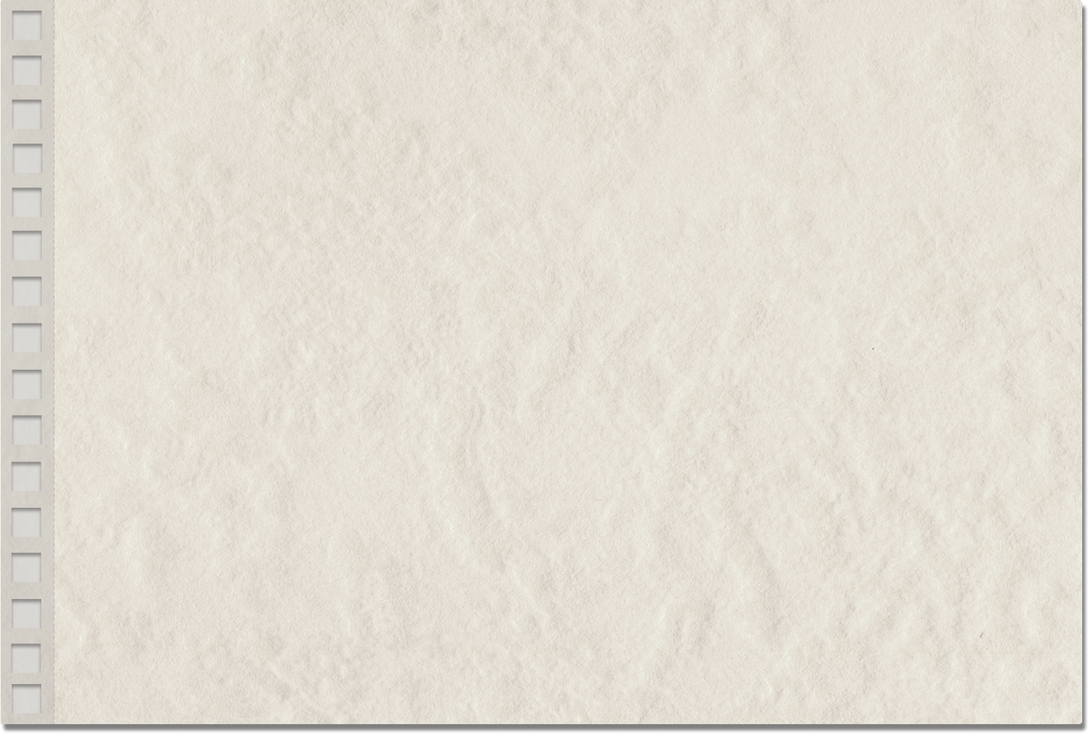
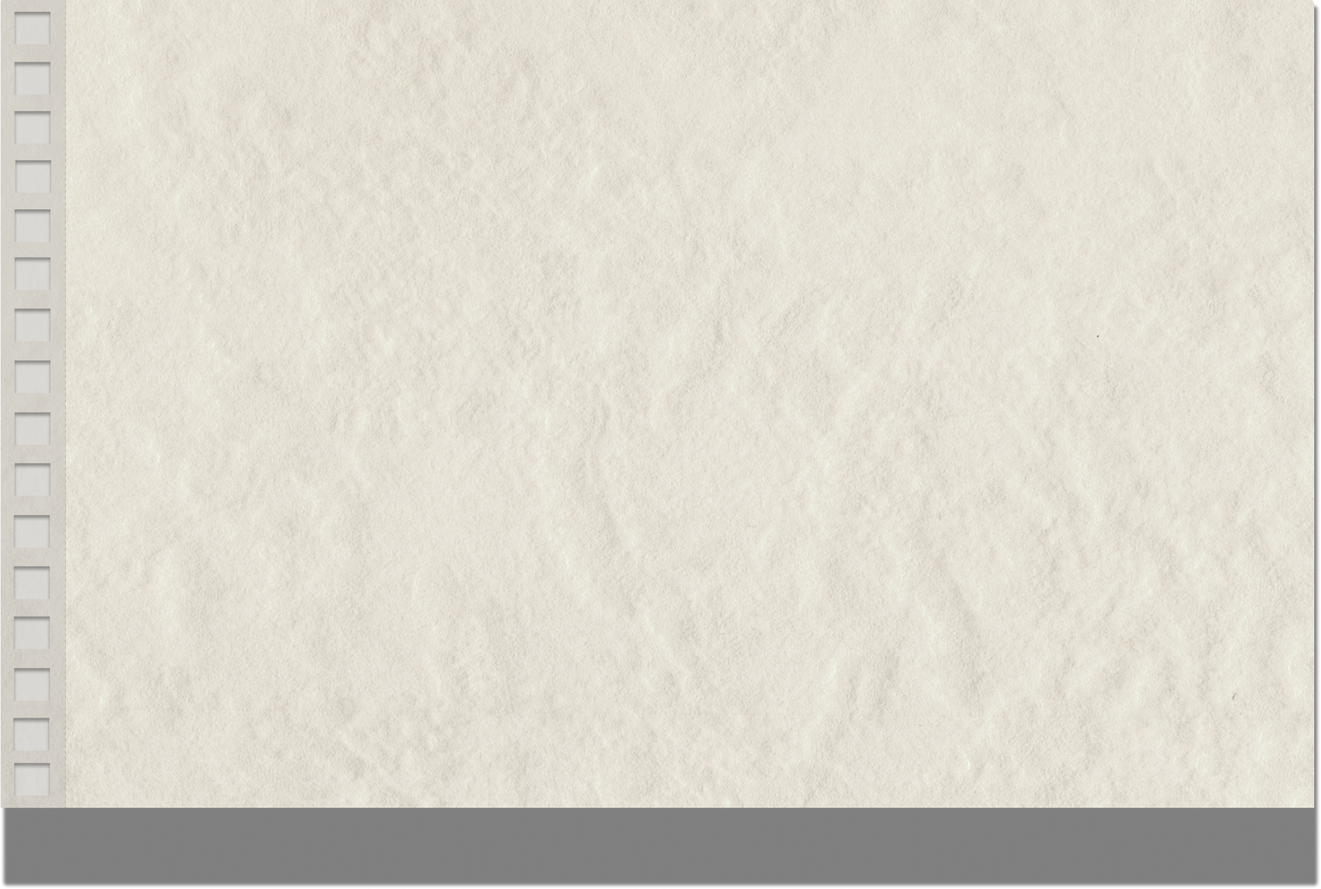
feat: Criação do Jonal e dos post-its no quadro de notas

diff --git a/src/components/novidades/Jornal.tsx b/src/components/novidades/Jornal.tsx
@@ -5,49 +5,55 @@ import img4 from "../../assets/images/senaiPredio.jpg";
 
 export default function Jornal() {
      return (
-        <div className="w-full min-h-screen bg-[#101625] text-white px-8 py-20">
+        <div className="w-full min-h-screen bg-[#101625] text-white py-[70px]">
 
             <div className="w-full flex justify-end mb-[50px]">
-            <h1 className="bg-[#94122F] px-[500px] py-2 text-[3rem] font-bold rounded mr-[-2rem]">
-                Formatura
+            <h1 className="bg-[#94122F] px-[500px] py-2 text-[3rem] font-bold rounded-l">
+                Novidades
             </h1>
             </div>
 
-        <div className="grid grid-cols-3 gap-6">
+        <div className="grid grid-cols-3 gap-6 pl-10 pr-10">
             <div className="flex flex-col gap-4">
             <img
                 src={img1}
-                className="rounded-xl w-full h-[250px] object-cover"
+                className="rounded-xl w-full h-[300px] object-cover"
             />
-            <p className="text-md leading-relaxed border-l-4 border-blue-500 pl-3">
-                Entre as principais atualizações, estão a modernização dos laboratórios e a ampliação do uso de tecnologias digitais em sala de aula, permitindo que os estudantes tenham contato direto com ferramentas utilizadas na indústria atual. Além disso, novos cursos e especializações foram incorporados à grade, acompanhando as demandas do setor produtivo e ampliando as oportunidades de qualificação.            </p>
-            <img
-                src={img2}
-                className="rounded-xl w-full h-[140px] object-cover"
-            />
+            <p className="text-md leading-relaxed text-justify">
+                Além disso, o SENAI oferece uma variedade de cursos, que vão desde formação inicial e continuada até cursos técnicos, graduação e pós-graduação, abrangendo áreas como tecnologia da informação, logística, mecânica, automação e gestão. Essa diversidade permite estudantes de diferentes perfis encontrem oportunidades de qualificação e crescimento profissional dentro da própria instituição. </p>
+            
+            <div className="flex items-start gap-4 ">
+                <p className="text-md leading-relaxed text-justify max-w-[300px]">
+                    Outro diferencial é a forte conexão com o setor industrial. A unidade mantém parcerias com empresas e incentiva a participação dos alunos em estágios, possibilitando a aplicação dos conhecimentos adquiridos em situações reais de trabalho.
+                    Esse contato contribui para o desenvolvimento de competências técnicas e comportamentais.
+                </p>
+                <img
+                    src={img2}
+                    className="rounded-xl w-[300px] h-[260px] object-cover"
+                />
             </div>
+        </div>
 
             <div className="flex flex-col gap-4">
-            <p className="text-md leading-relaxed">
-                A unidade do SENAI Leopoldina Mariano Ferraz tem se destacado recentemente por uma série de novidades que reforçam seu compromisso com a formação de profissionais qualificados e preparados para o mercado de trabalho. Com investimentos em infraestrutura, inovação tecnológica e metodologias de ensino mais dinâmicas, a instituição vem proporcionando uma experiência educacional cada vez mais completa aos alunos.            </p>
+            <p className="text-md leading-relaxed text-justify">
+                A unidade do SENAI Leopoldina Mariano Ferraz tem se destacado recentemente por uma série de iniciativas que reforçam seu compromisso com a formação de profissionais qualificados e preparados para as exigências do mercado industrial. Integrando uma das maiores redes de educação profissional da América Latina, a escola oferece uma estrutura moderna e alinhada às demandas tecnológicas atuais, proporcionando aos alunos uma formação prática e atualizada.
+                Nos últimos anos, a instituição tem ampliado significativamente sua atuação, investindo na modernização de laboratórios e na incorporação de tecnologias emergentes, como automação industrial, inteligência artificial e sistemas digitais. Eventos como o Mundo SENAI, por exemplo, aproximam os estudantes dessas inovações por meio de palestras, visitas técnicas e experiências práticas em áreas como impressão 3D, mecatrônica e eletrificação veicular. </p>
             <img
                 src={img3}
-                className="rounded-xl w-full h-[400px] object-cover"
+                className="rounded-xl w-full h-[395px] object-cover"
             />
             </div>
 
             <div className="flex flex-col gap-4">
             <img
                 src={img4}
-                className="rounded-xl w-full h-[180px] object-cover"
+                className="rounded-xl w-full h-[370px] object-cover"
             />
-            <p className="text-md leading-relaxed">
-                Outro destaque é o incentivo a projetos práticos e colaborativos, nos quais os alunos desenvolvem soluções reais para desafios do mercado. Essas iniciativas estimulam não apenas o conhecimento técnico, mas também habilidades como trabalho em equipe, criatividade e resolução de problemas. </p>
-            <p className="text-md leading-relaxed">
-                Com essas mudanças, o SENAI Leopoldina Mariano Ferraz segue consolidando sua posição como referência em educação profissional, preparando seus alunos para os desafios de um cenário cada vez mais tecnológico e competitivo. </p>
+            <p className="text-md leading-relaxed text-justify">
+                Com uma trajetória marcada pela constante evolução — desde sua criação voltada para atender à demanda industrial da região até sua consolidação como um centro de tecnologia e inovação — o SENAI Leopoldina Mariano Ferraz continua se reinventando para acompanhar as transformações da indústria. Ao investir continuamente em infraestrutura, inovação e na atualização de suas metodologias de ensino, a instituição demonstra um compromisso sólido com a excelência na formação profissional. Nesse contexto, não apenas prepara seus alunos para o ingresso no mercado de trabalho, mas também contribui ativamente para o desenvolvimento tecnológico e industrial do país. Dessa forma, o SENAI Leopoldina Mariano Ferraz se mantém como uma referência em educação profissional, formando não apenas técnicos qualificados, mas cidadãos preparados para enfrentar os desafios de um cenário cada vez mais dinâmico, competitivo e em constante transformação. </p>
             </div>
 
         </div>
-        </div>
+    </div>
     );
     }

diff --git a/src/components/novidades/QuadroNotas.tsx b/src/components/novidades/QuadroNotas.tsx
@@ -1,12 +1,63 @@
 import fundo from "../../assets/images/FundoNotas.png";
+import { useEffect, useState } from "react";
 
 function QuadroNotas() {
+  const [isMobile, setIsMobile] = useState(false);
+
+  useEffect(() => {
+    const checkScreen = () => {
+      setIsMobile(window.innerWidth < 640); // sm breakpoint
+    };
+
+    checkScreen();
+    window.addEventListener("resize", checkScreen);
+
+    return () => window.removeEventListener("resize", checkScreen);
+  }, []);
+
+  const basePosts = [
+    "bg-[#C0BD61]",
+    "bg-[#C06161]",
+    "bg-[#6196C0]",
+    "bg-[#C06161]",
+    "bg-[#C0BD61]",
+    "bg-[#6196C0]",
+    "bg-[#6196C0]",
+    "bg-[#C0BD61]",
+    "bg-[#6196C0]",
+    "bg-[#C06161]",
+    "bg-[#C0BD61]",
+    "bg-[#C06161]",
+    "bg-[#C0BD61]",
+    "bg-[#C06161]",
+    "bg-[#C06161]"
+  ];
+
+  // adiciona 1 a mais no mobile
+  const posts = isMobile ? [...basePosts, "bg-[#6196C0]"] : basePosts;
+
   return (
-    <div
-      className="w-full min-h-screen bg-cover bg-center"
-      style={{ backgroundImage: `url(${fundo})` }}
-    >
-      <h1 className="text-white text-3xl p-10">Quadro de Notas</h1>
+    <div className="w-full flex flex-col items-center">
+      
+      <div className="self-start bg-[#14358F] text-white text-[1.5rem] sm:text-[2rem] md:text-[3rem] font-black px-[120px] sm:px-[200px] md:px-[450px] rounded-r-[10px] shadow-md mb-3">
+        Quadro de Notas
+      </div>
+
+      <div
+        className="w-[95%] max-w-[1500px] min-h-[720px] bg-no-repeat bg-center bg-cover flex items-center justify-center p-4"
+        style={{ backgroundImage: `url(${fundo})` }}
+      >
+
+        <div className="grid grid-cols-2 sm:grid-cols-3 md:grid-cols-5 gap-12">
+          {posts.map((color, i) => (
+            <div
+              key={i}
+              className={`w-[130px] sm:w-[130px] md:w-[180px] aspect-square ${color} shadow-md`}
+            />
+          ))}
+        </div>
+
+      </div>
     </div>
   );
 }

diff --git a/src/pages/Novidades.tsx b/src/pages/Novidades.tsx
@@ -5,15 +5,15 @@ import QuadroNotas from "../components/novidades/QuadroNotas";
 function Novidades() {
     return (
         <div>
-            <section id="carrossel">
+            <section id="carrossel" className="min-h-[100vh]">
                 <Carrossel />
             </section>
 
-            <section id="jornal" className=" bg-[#101625] min-h-screen">
+            <section id="jornal" className=" bg-[#101625] min-h-[90vh]">
                 <Jornal />
             </section>
 
-            <section id="quadroNotas" className="bg-[#101625] min-h-screen">
+            <section id="quadroNotas" className="bg-[#101625] min-h-[90vh] flex justufy-center py-5">
                 <QuadroNotas />
             </section>
         </div>
